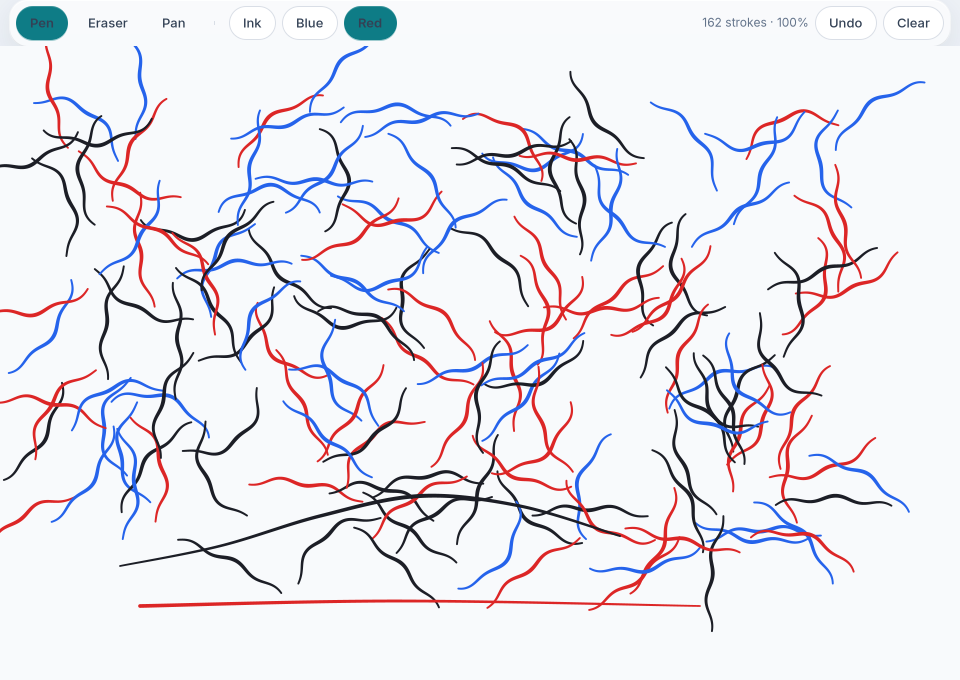
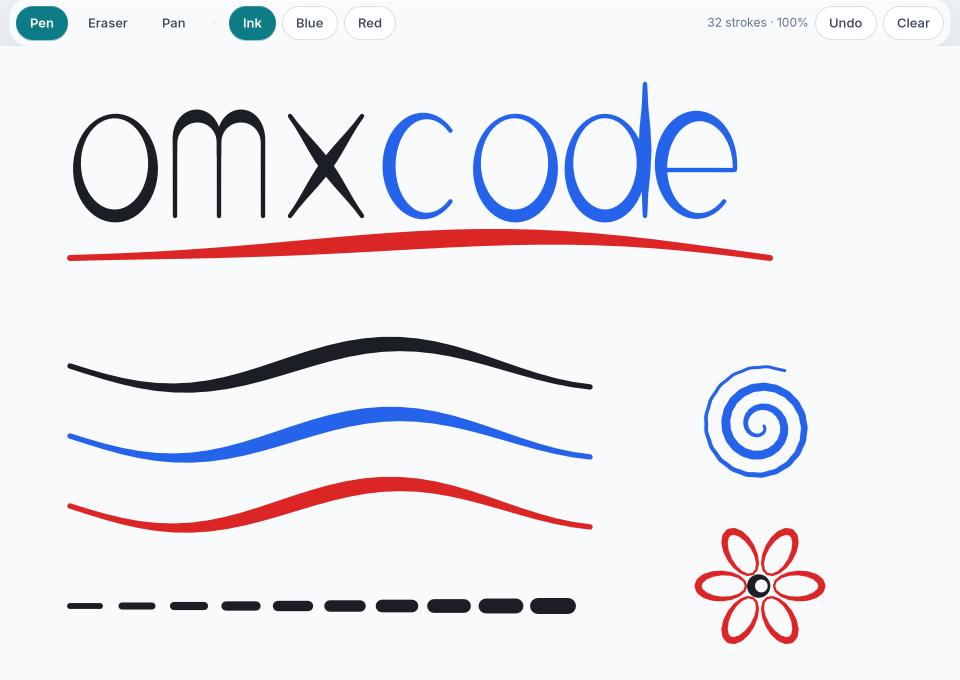
Goal 40 review: the gallery shows a deliberate page (lettering, tapered waves, a pressure ramp, a doodle) on GTK and the web; a prominent button in a toolbar keeps its on-accent text (skins base, GTK and web)

diff --git a/docs/gallery/index.html b/docs/gallery/index.html
@@ -149,12 +149,12 @@
       <span class="src"><a href="https://github.com/abhisheksreesaila/omxcode/tree/main/examples/sketch">examples/sketch/</a></span></div>
     <div class="body">
       <div class="shots two">
-        <figure><img src="img/sketch-gtk.png" alt="Sketch in a native Linux window: a Liquid toolbar with pen, eraser, pan, three inks, undo and clear over a page of 162 ink strokes, two drawn with changing pressure" loading="lazy"><figcaption>Linux (GTK): each stroke is one filled outline that GTK's renderer fills; the bottom two were drawn with pressure rising and falling.</figcaption></figure>
-        <figure><img src="img/sketch-web.png" alt="The same app in a browser: the same toolbar and the same page of strokes" loading="lazy"><figcaption>Web: the same file in a browser; the canvas is painted by the CPU painter and streamed.</figcaption></figure>
+        <figure><img src="img/sketch-gtk.png" alt="Sketch in a native Linux window: a Liquid toolbar with pen, eraser, pan, three inks, undo and clear, the stroke count reading 32 strokes; on the page the word omxcode hand-lettered in black and blue, a red swash under it, three waves in black, blue and red that swell from thin to thick and back, ten dashes from light to full pressure, a blue spiral and a red flower" loading="lazy"><figcaption>Linux (GTK): every stroke is points and pressures, as a pen sends them, turned into one outline that GTK's renderer fills. The waves taper thin → thick → thin with pressure; the dashes go from 0.1 to full pressure.</figcaption></figure>
+        <figure><img src="img/sketch-web.png" alt="The same app in a browser: the same toolbar and the same page, the lettering, waves, pressure dashes and doodle" loading="lazy"><figcaption>Web: the same file in a browser; the canvas is painted by the CPU painter and streamed.</figcaption></figure>
       </div>
       <div class="why">
-        <p>Drawing comes from the library, not the app: <code>mojoui.ink</code> turns a pen's points and pressures into one outline polygon (a mouse gets a width from its speed); the Scene gained a polygon fill and a layer transform, so panning and zooming moves the kept ink layer instead of redrawing it; <code>Event.pressure</code> reaches apps from GTK, a browser's pen and a Mac's tablet. <code>examples/sketch</code> is one file that puts them together.</p>
-        <p>Measured headless (Xvfb, cairo): 1,000 strokes (101,000 points), p95 frame 2.0 ms panning, 2.6 ms zooming, 1.8 ms drawing; the ink layer is never rebuilt during pan or zoom. Checked by <code>docs/goals/40-check.py</code>; the Mac build is built, not yet run.</p>
+        <p>Drawing comes from the library, not the app: <code>mojoui.ink</code> turns a pen's points and pressures into one outline polygon (a mouse gets a width from its speed); the Scene gained a polygon fill and a layer transform, so panning and zooming moves the kept ink layer instead of redrawing it, and a finished or erased stroke mends that layer instead of rebuilding it; <code>Event.pressure</code> reaches apps from GTK, a browser's pen and a Mac's tablet; <code>Canvas(scroll_pans=True)</code> makes a two-finger scroll pan and ctrl+scroll or a pinch zoom. <code>examples/sketch</code> is one file that puts them together.</p>
+        <p>Measured headless (Xvfb, cairo, on a machine shared with other builds): 1,000 strokes (101,000 points), p95 frame 3.0 ms panning, 6.0 ms zooming, 2.7 ms drawing, 3.1 ms over the frames where strokes end, 22.6 ms erasing (14–23 ms over five runs). The slowest frames, 35–58 ms, are the ink layer's picture being rendered again: once when a pan starts, four times across a zoom. The ink layer is never rebuilt during pan or zoom. Checked by <code>docs/goals/40-check.py</code>. Not tried with a real pen yet: GTK's pressure ran only as injected values, the web's pen not at all; the Mac build is built, not yet run.</p>
       </div>
     </div>
   </article>
